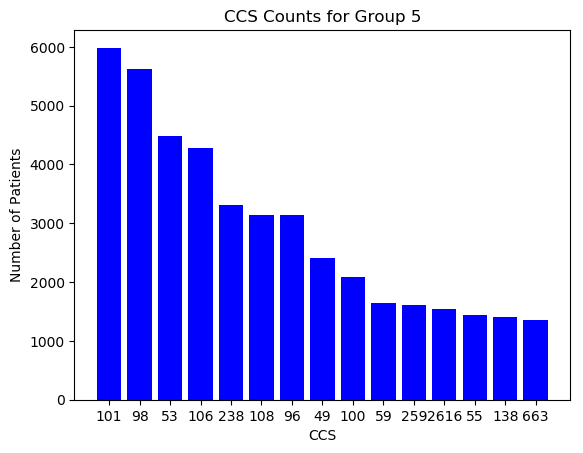
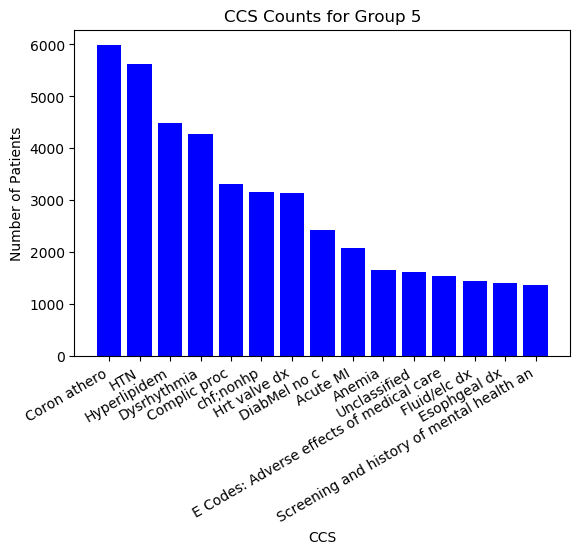
added descriptions to cluster count graphs

diff --git a/clustering/cluster_analysis.py b/clustering/cluster_analysis.py
@@ -4,10 +4,18 @@ import matplotlib.pyplot as plt
 from collections import Counter
 from scipy.misc import comb
 
-def generate_plot(groupss):
+def generate_plot(groups, labels):
+    '''
+        Generates CCS count bar graphs for each cluster
+
+        Args:
+            groups: a 2D array of (clusters, CCS codes)
+            labels: a dictionary mapping CCS codes to descriptions
+        Returns:
+            Saves CCS bar graphs inside graphs folder
+    '''
     index = 1
     for group in groups:
-        print ("Group size", len(group))
         ccs_count = {}
         for codes in group:
             cleaned_codes = codes.strip("()").split(", ")
@@ -19,22 +27,23 @@ def generate_plot(groupss):
                     ccs_count[code] = 1
         # print(ccs_count)
         ccs_count = Counter(ccs_count)
-        common = ccs_count.most_common()[:15]
+        common = ccs_count.most_common()[:10]   #10 most common CCS codes
         x, y = [], []
         for i,j in common:
-            x.append(i)
+            x.append(labels[i])
             y.append(j)
+        
+        #Formats labels
+        fig, ax = plt.subplots()
+        fig.autofmt_xdate()
 
-        print(x)
-        print(y)
         x_pos = [i for i, _ in enumerate(x)]
         plt.bar(x_pos, y, color='blue')
         plt.xlabel("CCS")
         plt.ylabel("Number of Patients")
         plt.title("CCS Counts for Group " + str(index))
-        # plt.ylim(min(y), max(y))
         plt.xticks(x_pos, x)
-        plt.savefig('graphs/SOM_CCS_cluster' + str(index) +'.png', bbox_inches='tight')
+        plt.savefig('graphs/Kmodes_CCS_cluster' + str(index) +'.png', bbox_inches='tight')
         index += 1
         plt.clf()
         # plt.show()
@@ -43,10 +52,11 @@ def calc_similarity(groups):
     """Calculates the similarity score of each cluster by getting the sum of the set difference
 
     Args:
-        param1 (groups): A list of the dictionaries of clusters (key: CCS code, value: # patients)
+        groups: A list of the dictionaries of clusters (key: CCS code, value: # patients)
 
     Returns:
-        Similarity score. The higher the number, the better
+        score: Similarity score. The higher the number, the better
+        cnt_overlap_key: cluster overlap. Counts number of overlapping keys in cluster. The lower, the better
 
     """
     clusters = [] 
@@ -78,15 +88,32 @@ def calc_similarity(groups):
                     cnt_overlap_key += 1
     return score, cnt_overlap_key
     
-#[1,2,3]
-#[1,4]
+def get_labels(df):
+    '''
+        Maps a dictionary of icd codes to disease
+
+        Args:
+            df: ICD dataframe
+        Returns: 
+            dictionary (code to disease)
+    '''
+    df['CCS_clean_category'] = df["\'CCS CATEGORY\'"].str.strip(' "\'\t\r\n')
+    df['clean_desc'] = df["\'CCS CATEGORY DESCRIPTION\'"].str.strip(' "\'\t\r\n')
+    return dict(zip(df["CCS_clean_category"], df['clean_desc']))
+
+
 if __name__ == "__main__":
-    data = pd.read_csv("../data/patient_ccs_som_30x30.csv")
-    # data = pd.read_csv("../data/patient_ccs_100.csv")
+    # data = pd.read_csv("../data/patient_ccs_som_30x30.csv")
+    icd = pd.read_csv("../data/CCS.csv", skiprows=[0,2])
+    labels = get_labels(icd)
+    data = pd.read_csv("../data/patient_ccs_100.csv")
+
+    #generate graphs
     groups = data.groupby('cluster_num')['CCS_codes'].apply(list)
-    for i in groups:
-        print(len(i))
+    generate_plot(groups, labels)
+
+
+    #similarity scores
     # score, cnt = calc_similarity(groups)
     # print("Similarity Score:", score)
     # print("Average # of overlapping CCS codes:", cnt/comb(len(groups), 2))
-    # generate_plot(groups)
